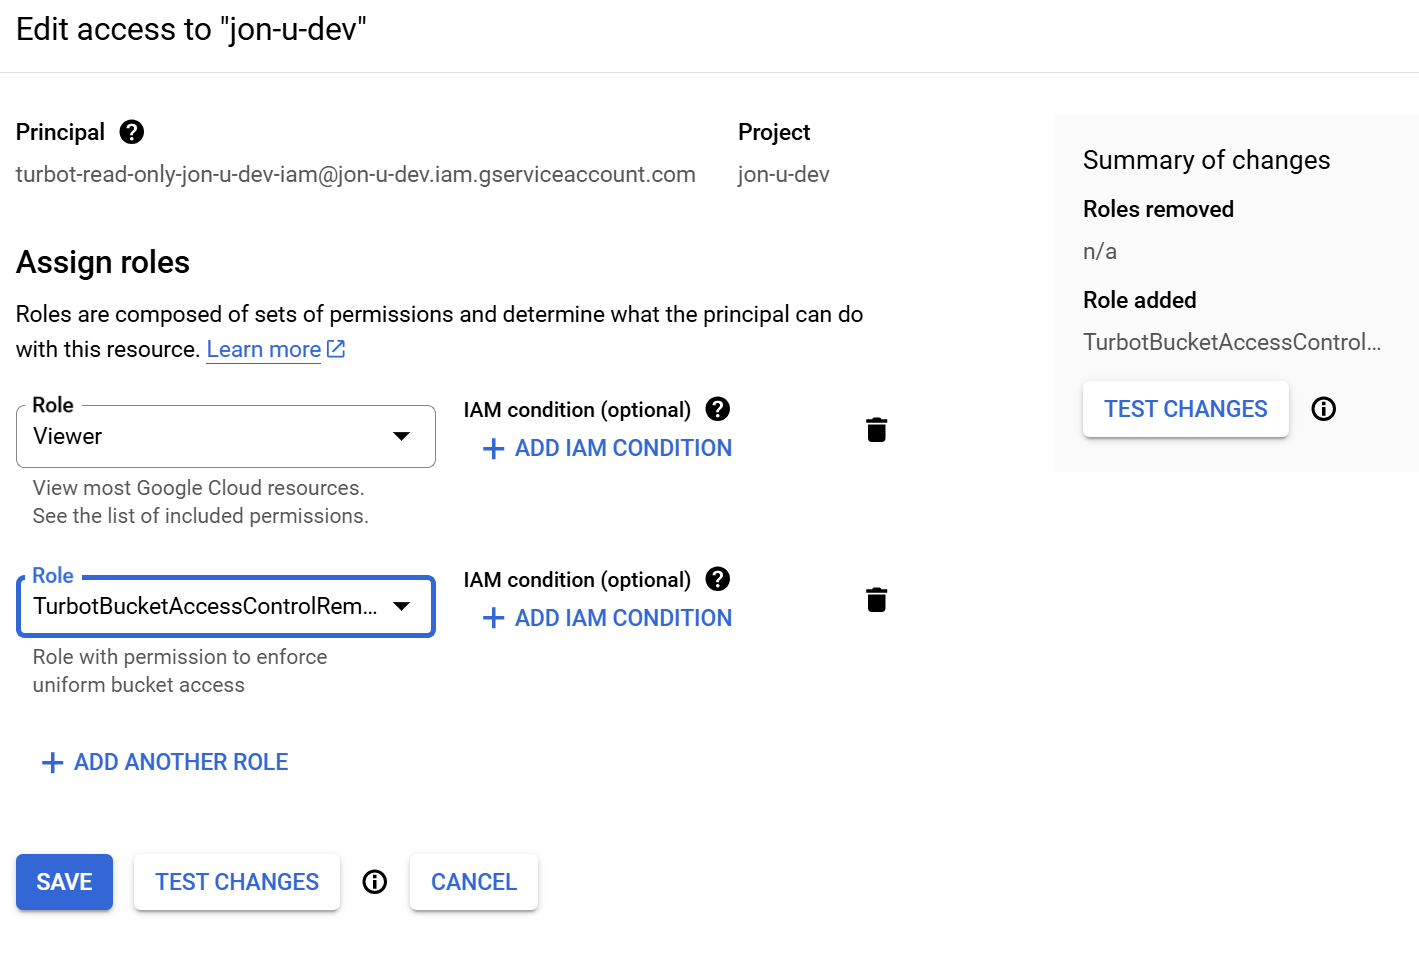
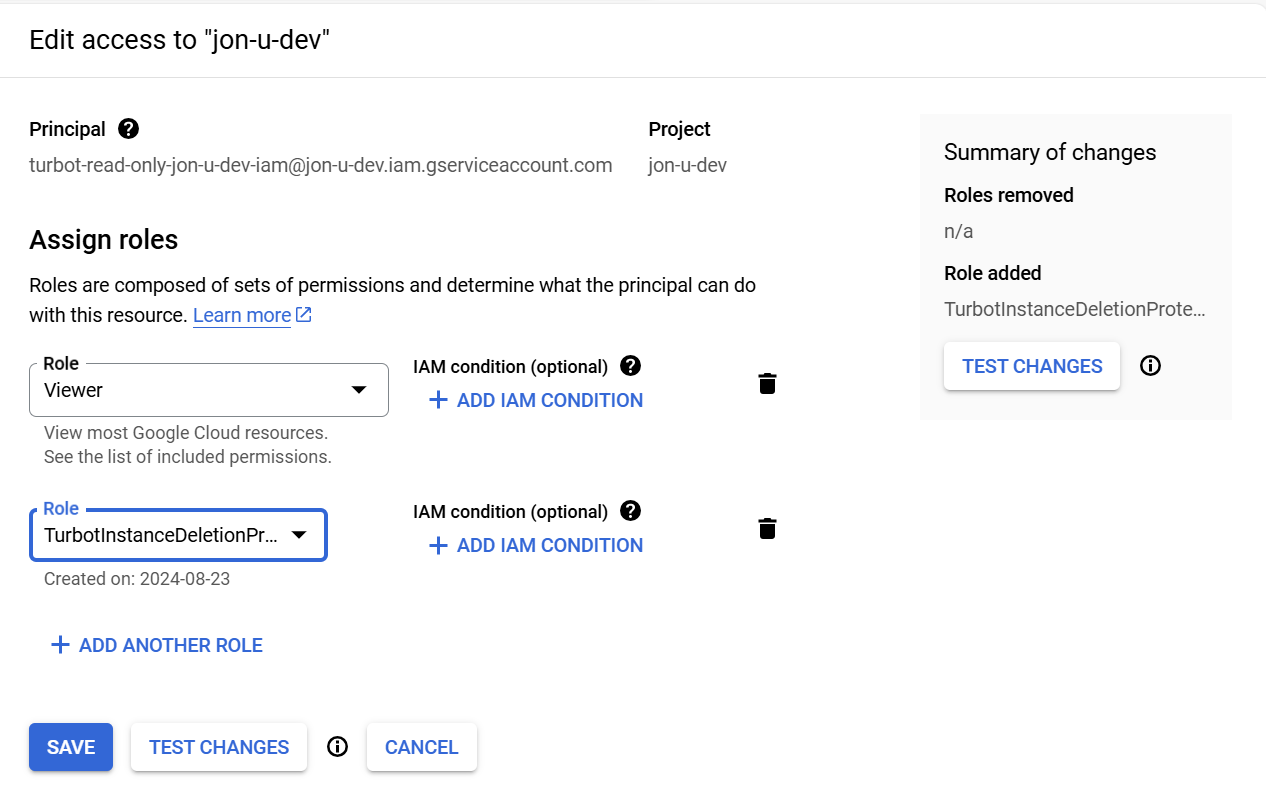
getting started gcp apply quick action

diff --git a/docs/runbooks/getting-started-gcp/apply-quick-action/index.md b/docs/runbooks/getting-started-gcp/apply-quick-action/index.md
@@ -18,7 +18,7 @@ sidebar_label: Apply a Quick Action
 
 Until now we’ve operated Guardrails in read-only mode, with the minimal permissions needed to discover resources, track changes, and alert on misconfigurations. In this runbook we’ll show how you can enable Guardrails to perform [Quick Actions](/guardrails/docs/guides/quick-actions) that fix misconfigurations.
 
-## Step 1: Add the storage.buckets.update permission
+## Step 1: Add the compute.instances.setDeletionProtection permission
 
 Create a custom IAM role.
 <p><img alt="gcp_create_custom_role" src="/images/docs/guardrails/runbooks/getting-started-gcp/apply-quick-action/gcp-create-custom-role.png"/></p><br/>
@@ -39,50 +39,33 @@ Do a top-level search for `quick actions` and click into the `Turbot > Quick Act
 It’s disabled by default. On its Policy Type page, click `New Policy Setting`, choose your Sandbox as the target resource, choose `Enabled`, and click `Create`.  
 <p><img alt="gcp_enable_quick_actions" src="/images/docs/guardrails/runbooks/getting-started-gcp/apply-quick-action/gcp-enable-quick-actions.png"/></p><br/>
 
-## Step 3: Find a bucket in Alarm for access control
+## Step 3: Find a control for a compute instance
 
   
-In [Send an alert to email]( /guardrails/docs/runbooks/getting-started-gcp/send-alert-to-email) we left your test bucket in the `Alarm` state.  
+From the top-level `Controls` tab, search for `gcp compute instance deletion`.  
+<p><img alt="gcp_search_compute_instance_deletion" src="/images/docs/guardrails/runbooks/getting-started-gcp/apply-quick-action/gcp-search-compute-instance-deletion.png"/></p><br/>
+
+The controls for this policy type are in the `skipped` state by default. Click the status bar to view the controls.
+<p><img alt="gcp_view_controls_for_deletion_protection" src="/images/docs/guardrails/runbooks/getting-started-gcp/apply-quick-action/gcp-view-controls-for-deletion-protection.png"/></p><br/>  
   
-Search for it.  
-<p><img alt="gcp_search_bucket_in_alarm_for_quick_action" src="/images/docs/guardrails/runbooks/getting-started-gcp/apply-quick-action/gcp-search-bucket-in-alarm-for-quick-action.png"/></p><br/>
+Click into the control for an instance that does not enable deletion protection.
+<p><img alt="gcp_quick_action_dropdown" src="/images/docs/guardrails/runbooks/getting-started-gcp/apply-quick-action/gcp-quick-action-dropdown.png"/></p><br/>
 
-Click into the resource, switch to the `Controls` tab, and search for `s3 bucket versioning`.
-<p><img alt="gcp_bucket_in_alarm_for_quick_action" src="/images/docs/guardrails/runbooks/getting-started-gcp/apply-quick-action/gcp-bucket-in-alarm-for-quick-action.png"/></p><br/>  
+Select the `Policies` tab and change the setting to `Check: Enabled` for this instance.  
   
-
-
-Click into the control and expand the `Actions` dropdown.  
+![](https://lh7-rt.googleusercontent.com/docsz/AD_4nXcchRgvg_XEauh_gRLhkx0w3l0XA-wt1yoBwNOvant47z_WYLhxRjES2pcgV-3M8sS5yOtgpR9Wqwq39rBjezOtUSzyPu4fkA_x40ORp0dJwKeKnbLu4LOw9z2x6e4r0VU7d6E1Bkerrlb96UmDtoMcL9uM?key=mTcIRW7htp-Gjdgfy2mntA)  
   
-[image: gcp_quick_action_dropdown]  
-  
+Go back to the control. It’s now in `Alarm` because theinstance doesn’t enable deletion protection but the policy says it should.
+<p><img alt="gcp_instance_now_in_alarm" src="/images/docs/guardrails/runbooks/getting-started-gcp/apply-quick-action/gcp-instance-now-in-alarm.png"/></p><br/>
 
+## Step 4: Take a Quick Action to enable deletion protection.
 
-Hmm. The action is not enabled.
-
-## Step 4: Take a Quick Action to enable versioning  on a bucket
-
-Choose `Enable Versioning`.  
+Expand the `Actions` dropdown and choose `Enable Deletion Protection`.  
+<p><img alt="gcp_ready_to_enable_deletion_protection" src="/images/docs/guardrails/runbooks/getting-started-gcp/apply-quick-action/gcp-ready-to-enable-deletion-protection.png"/></p><br/>  
 
 
 Guardrails reports that the action was successful, and the control goes to green.  
-  
-[image: gcp_quick_action_reports_success]  
-
-
-For more detail about what happened here, go to the top-level `Reports` tab, search in the page for `Activity Ledger`, and filter on `Control Type` == `AWS > S3 > Bucket > Versioning`.  
-  
-[image: gcp_quick_action_report_detail]  
-  
-
-
-The flow of notifications tells the story. Reading from the bottom up, Guardrails:  
-  
-- performs the action  
-  
-- notices the updated bucket  
-  
-- reevaluates the control.
+<p><img alt="gcp_quick_action_reports_success" src="/images/docs/guardrails/runbooks/getting-started-gcp/apply-quick-action/gcp-quick-action-reports-success.png"/></p><br/>
 
 In the [next runbook](/guardrails/docs/runbooks/getting-started-gcp/enable-enforcement) we’ll set Guardrails to automatically enforce these actions continuously.  
   
